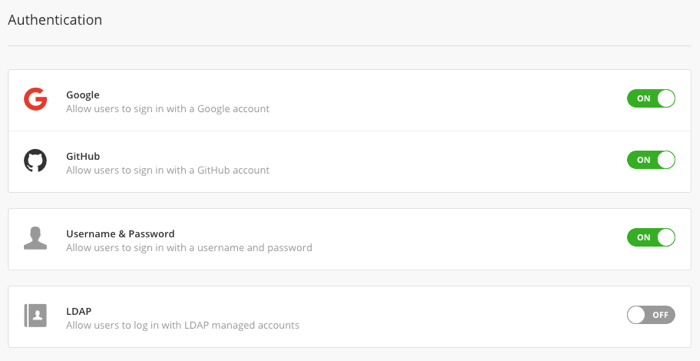
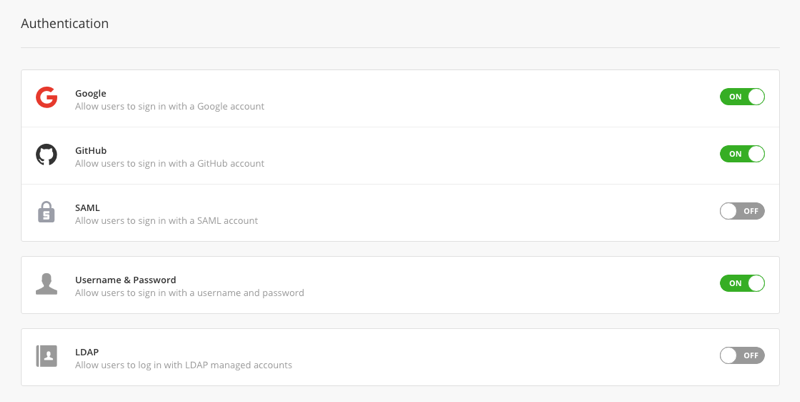
Update user authentication with SAML

diff --git a/Cloud Application Manager/Administering Your Organization/user-authentication.md b/Cloud Application Manager/Administering Your Organization/user-authentication.md
@@ -12,12 +12,41 @@ In Cloud Application Manager enterprise organizations, users can sign in using a
 
 **In this article:**
 * Single sign-on with Google, GitHub, or username, password
+* Single sign-on with SAML
 * Single sign-on with LDAP
 
 ### Single sign-on with Google, GitHub, or username, password
 To allow users to sign in with an Cloud Application Manager username and password, turn on that option under Authentication in the admin console.
 
 Do the same and turn on Google or GitHub to let users sign in with those credentials without having to create an account exclusively for Cloud Application Manager. When they sign in, Cloud Application Manager provisions an account based on their Google or GitHub username.
+
+### Single Sign-On with SAML
+SAML SSO allows users to authenticate only once in an Identity Provider (IdP), and then, access to multiple applications that act as Service Providers (SP).
+
+Cloud Application Manager can be configured to act as a SP, and delegate the user management and authentication to a third party IdP.
+
+When users log in with SAML into Cloud Application Manager, the user is redirected to the SAML IdP site, who will authenticate to the user, asking credentials if is not logged yet, and then sending back to CAM.
+
+### Setting up a SAML IdP
+Enable SAML in Cloud Application Manager to let users log in using credentials managed by a SAML identity provider.
+
+1. Sign in to Cloud Application Manager as the [default administrator](//www.ctl.io/guides/).
+
+2. From the user menu drop-down on the top right, select **Admin Console**.
+
+3. Under Authentication, enable SAML by turning it on.
+
+4. Set up SAML IdP with the SP settings. This settings can be obtained clicking on "SP Metadata"
+download link:
+
+   ![admin-user-saml.png](../../images/cloud-application-manager/admin-user-saml.png)
+
+   Some of the common settings to configure in your SAML IdP are:
+
+   * **Single Sign On URL.** Service Provider endpoint that will be used to interchange messages during authentication. This value can be found on AssertionConsumerService XML element on SP metadata file.
+   * **Service Provider Entity ID.** This value must match with the entityID property on SP metadata file.
+
+5. Finally it's needed to download the IdP Metadata file and upload on CAM admin console.
 
 ### Single Sign-On with LDAP
 Enable LDAP in Cloud Application Manager to let users log in using credentials managed in OpenLDAP or Windows Active Directory.
